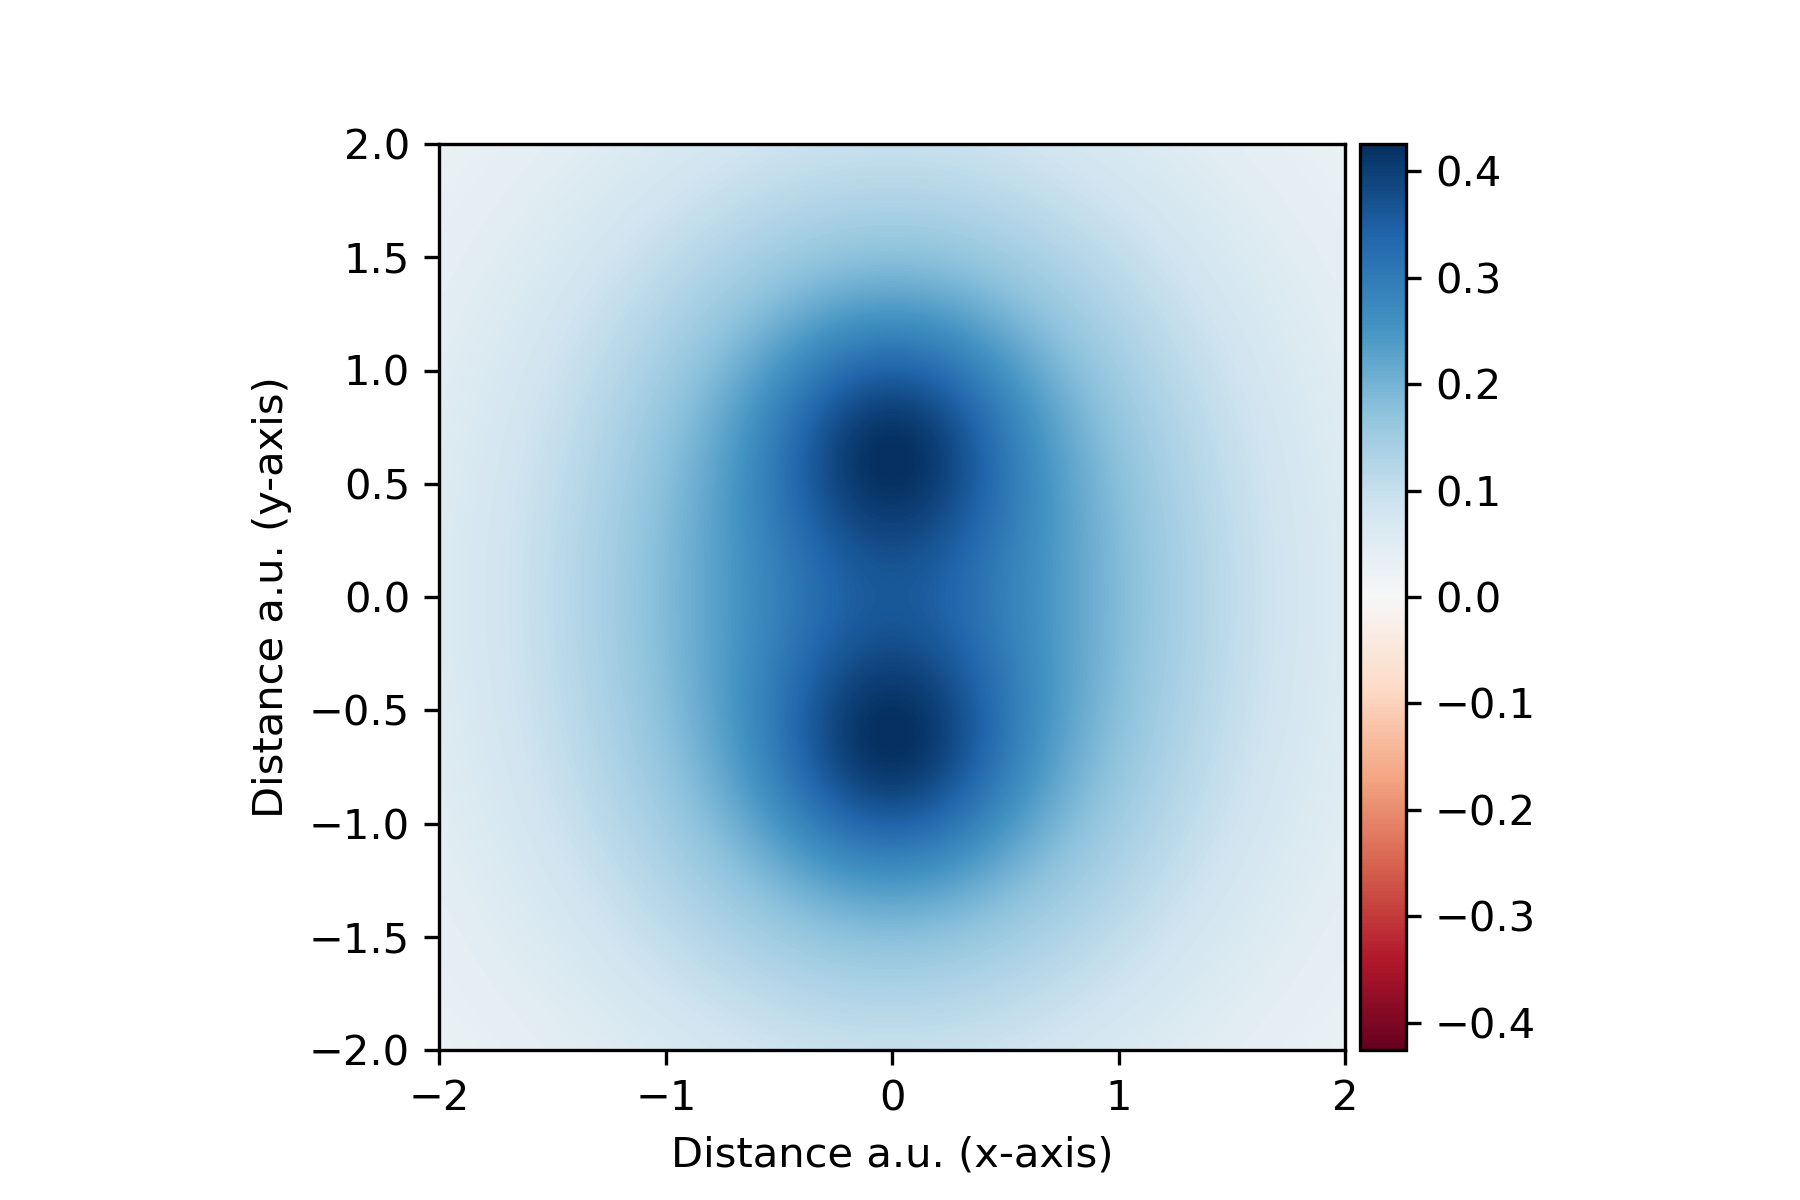
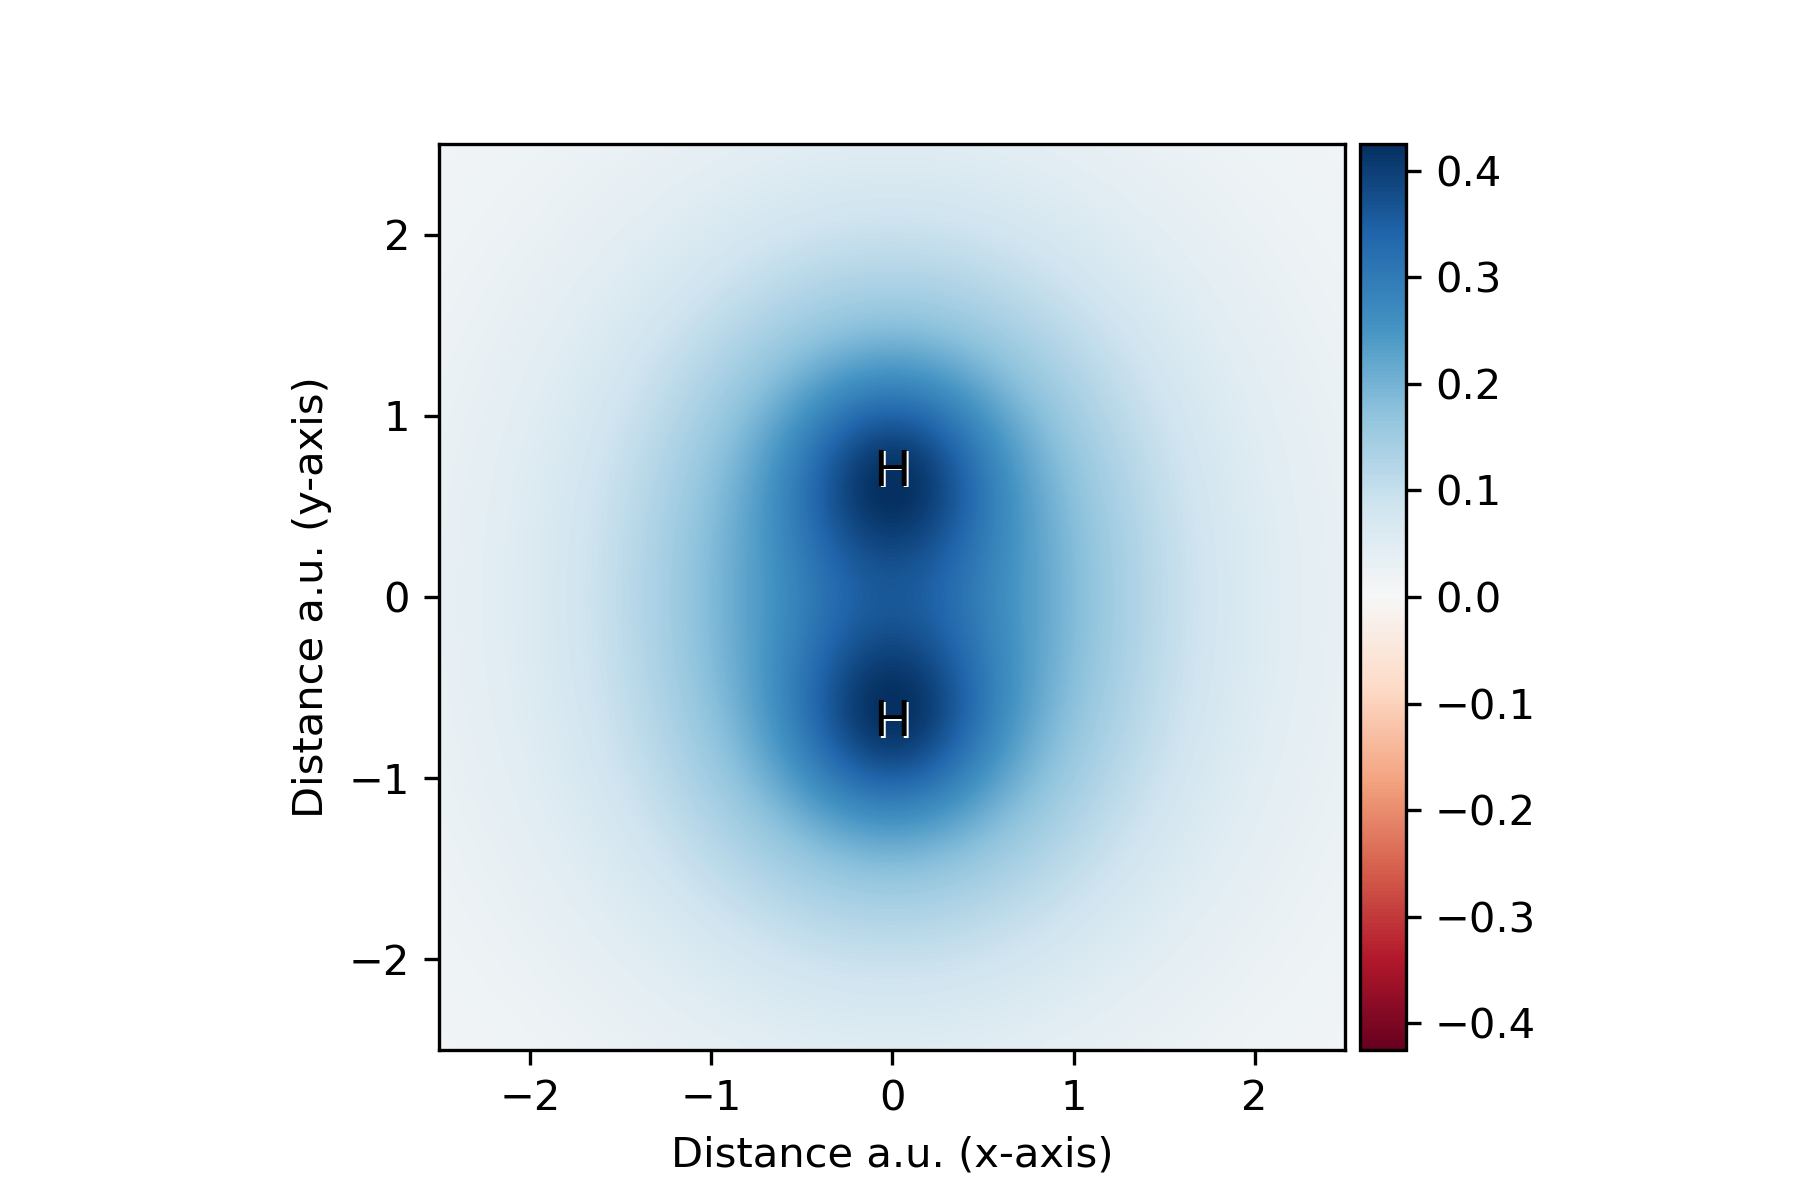
Update to version 0.2

diff --git a/tests/test_0_run.py b/tests/test_0_run.py
@@ -18,27 +18,36 @@ def run_H2cyob():
     do_single_plyfiles = False
     do_double_plyfiles = True
     do_coefficients = True
+    do_energies = True
     do_abofile = True
     do_plots = True
 
     name = 'H2'
     isovalue = 0.05
     basis_set = 'sto3g'
+    plot_show_atoms = 'in_plane'
 
+    # Set atoms
+    # Add atoms in this format:
+    #       ('element', x-pos, y-pos, z-pos, 'unit')
+    # Place molecule on the xy-plane if possible.
     atom_list = [('H', 0, 0.36628549, 0, 'angstrom'),
                  ('H', 0, -0.36628549, 0, 'angstrom')
                 ]
 
+    # Create dictionary - do not change!
     input_dict = {'do_single_plyfiles': do_single_plyfiles,
                   'do_double_plyfiles': do_double_plyfiles,
                   'do_coefficients': do_coefficients,
+                  'do_energies': do_energies,
                   'do_abofile': do_abofile,
                   'do_plots': do_plots,
                   'atom_list': atom_list,
+                  'plot_show_atoms': plot_show_atoms,
                   'isovalue': isovalue,
                   'basis_set': basis_set,
                   'name': name,
-                  # to skip the overwriting question
+                  # to always skip the overwriting question
                   'always_overwrite': True,
                   # to force the parent folder
                   'parent_folder': 'tests'}

diff --git a/tests/test_H2_abo.py b/tests/test_H2_abo.py
@@ -9,6 +9,7 @@ class TestH2(unittest.TestCase):
 
         np.testing.assert_equal(abo_res, abo_tes)
 
+    # Testing the plots is a pain due to inaccuracies. A better way has to be found.
     # def test_H2plot(self):
     #     # Test the first plot
     #     plot_1_res = open('tests\\results\\density_plots\\H2_figure1.png', 'rb').read()
@@ -47,3 +48,10 @@ class TestH2(unittest.TestCase):
         input_tes = open('tests\\H2\\input.txt', 'r').read()
 
         np.testing.assert_equal(input_res, input_tes)
+    
+    def test_H2energy(self):
+        # Test the energy output:
+        energy_res = open('tests\\results\\energies\\H2_energies.txt', 'r').read()
+        energy_tes = open('tests\\H2\\energies\\H2_energies.txt', 'r').read()
+        
+        np.testing.assert_equal(energy_res, energy_tes)
